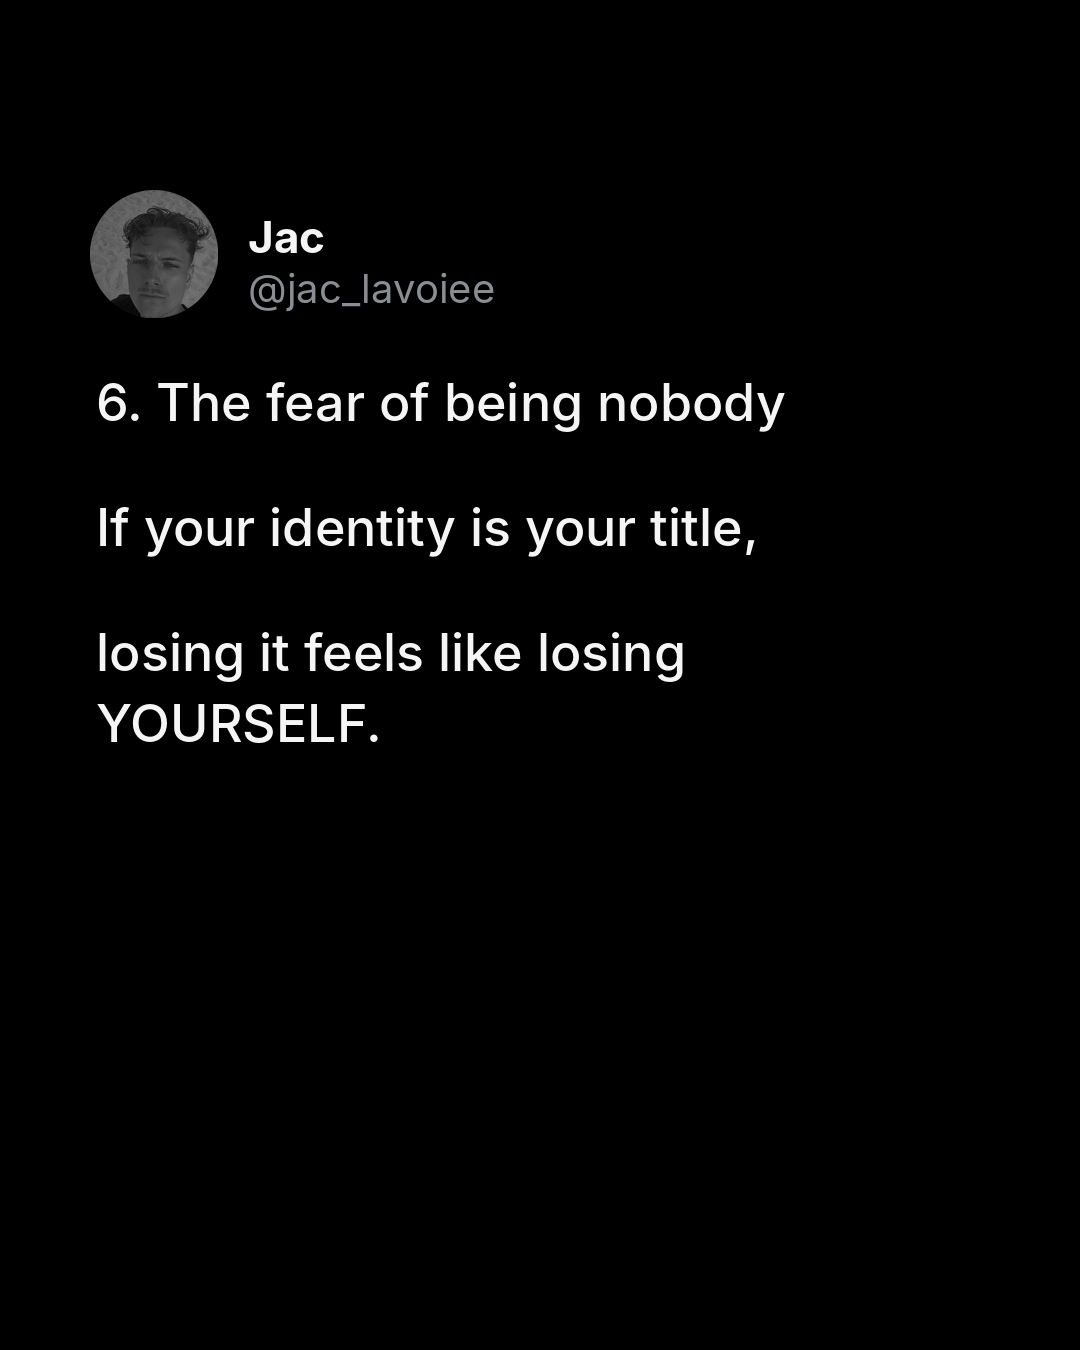
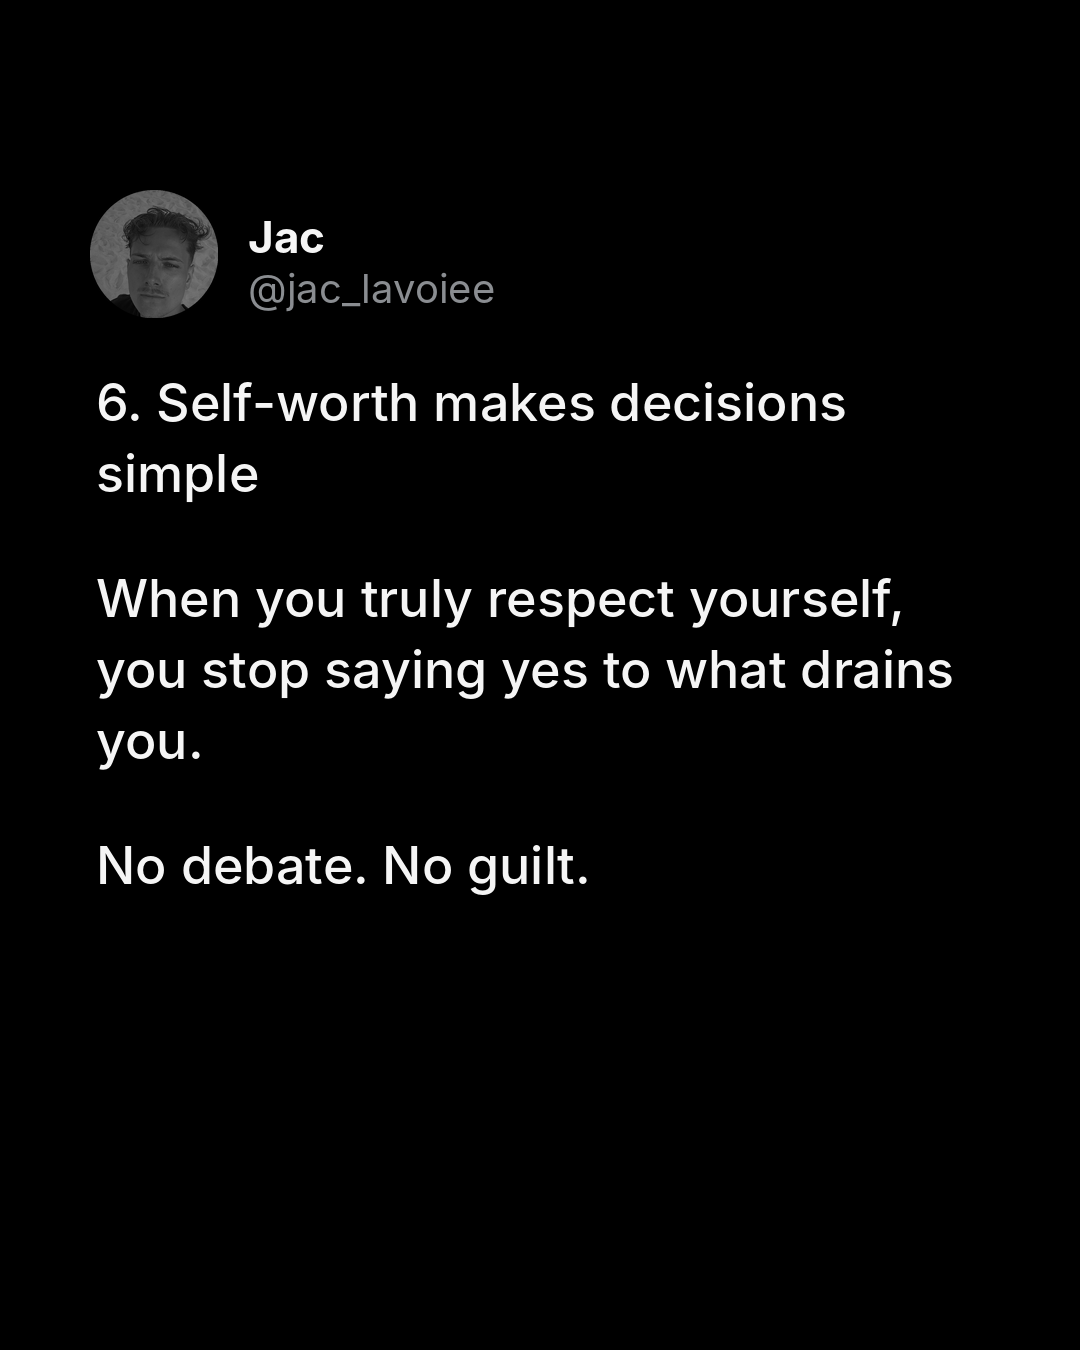
Carousel 014 rewritten: self-worth sets you free, status doesn't
Claude-Session: https://claude.ai/code/session_01CHbjGf6RoaAaTHwKT8d6MF

Changed region(s): [[0.0917, 0.3422, 0.8861, 0.56], [0.1222, 0.28, 0.7944, 0.3422], [0.0917, 0.6222, 0.55, 0.6844]]

diff --git a/carousels/LOG.md b/carousels/LOG.md
@@ -13,4 +13,4 @@
 ## 2026-11-17 (Calendar day 2)
 - 012-unlearning-method (A, #47): "You were graded for 12 years. Now you're still waiting for someone to tell you you're doing good."
 - 013-success-backwards (B, #271): "You've been conditioned to chase more. What if the goal was to need less?"
-- 014-status-vs-worth (C, #55): "You've been conditioned to confuse your status with your worth."
+- 014-status-vs-worth (C, #55, rewritten to Jac's angle): "Your social status will never set you free. Your self-worth will."
